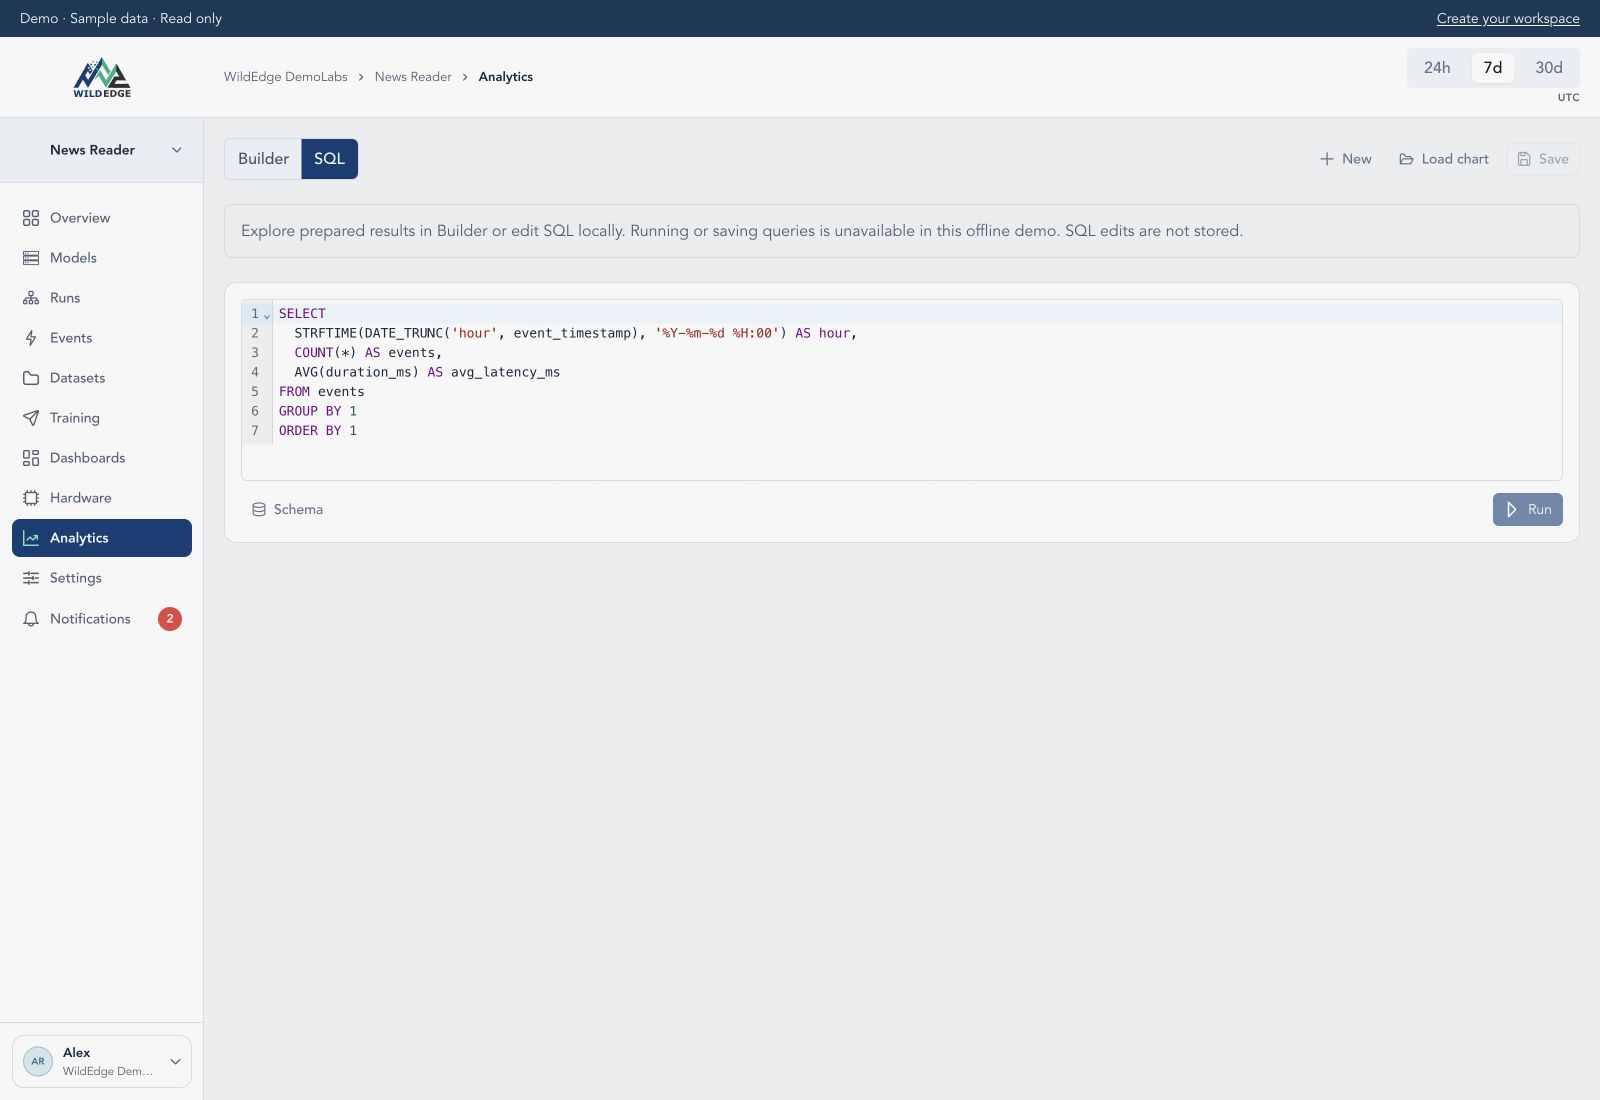
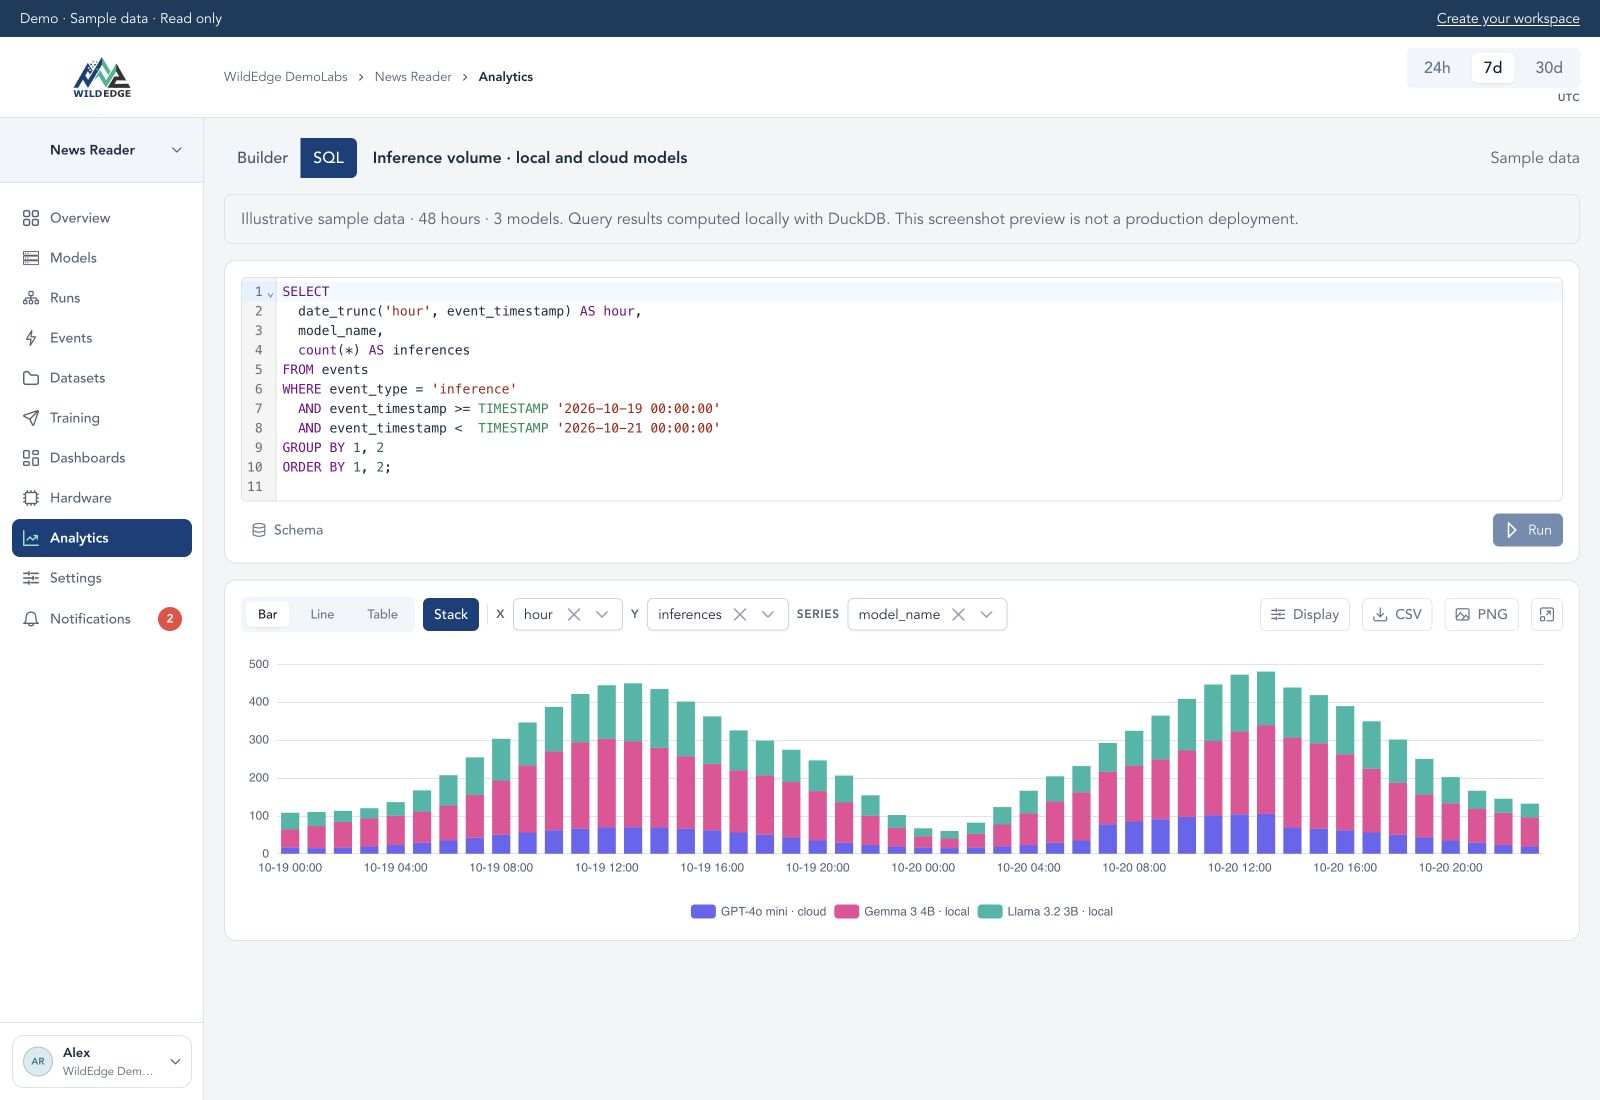
Show computed sample SQL results as stacked model volumes

diff --git a/docs/images/sql-preview/DemoAnalytics.vue b/docs/images/sql-preview/DemoAnalytics.vue
@@ -1,0 +1,40 @@
+<template>
+  <div class="analytics data-view">
+    <div class="query-header">
+      <ButtonGroup>
+        <Button label="Builder" severity="secondary" />
+        <Button label="SQL" />
+      </ButtonGroup>
+      <strong>Inference volume · local and cloud models</strong>
+      <span class="sample-label">Sample data</span>
+    </div>
+    <div class="demo-notice" role="note">
+      Illustrative sample data · 48 hours · 3 models. Query results computed locally with DuckDB.
+      This screenshot preview is not a production deployment.
+    </div>
+    <SqlExplorer :initial-sql="query" demo-preview />
+    <QueryResult compact :result="result" :loading="false" :error="null" :initial-view="{
+      vizType: 'bar', stacked: true, xCol: 'hour', yCol: 'inferences', seriesCol: 'model_name',
+      display: {}, statValueColumn: null, statReducer: 'last',
+    }" />
+  </div>
+</template>
+<script setup lang="ts">
+import { ref, onMounted, nextTick } from 'vue'
+import Button from 'primevue/button'
+import ButtonGroup from 'primevue/buttongroup'
+import SqlExplorer from '@/components/SqlExplorer.vue'
+import QueryResult from '@/components/QueryResult.vue'
+import type { QueryResultData } from '@/services/analyticsService'
+import query from '@/services/demo/screenshot-query.sql?raw'
+import fixture from '@/services/demo/screenshot-result.json'
+const result = ref<QueryResultData | null>(null)
+onMounted(async () => { await nextTick(); result.value = fixture })
+</script>
+<style scoped>
+.analytics { display: flex; flex-direction: column; gap: 1rem; }
+.query-header { display: flex; align-items: center; flex-wrap: wrap; gap: 1rem; }
+.sample-label { color: var(--text-color-secondary); margin-left: auto; }
+.demo-notice { padding: .75rem 1rem; border: 1px solid var(--surface-border); border-radius: 8px;
+  color: var(--text-color-secondary); line-height: 1.5; }
+</style>

diff --git a/docs/images/sql-preview/prepare.py b/docs/images/sql-preview/prepare.py
@@ -1,0 +1,76 @@
+"""Create an isolated, fictional SQL screenshot preview using the actual dashboard.
+
+Usage: python prepare.py /path/to/wild-edge /private/tmp/wildedge-sql-preview
+Requires duckdb in the Python environment and installed dashboard node_modules.
+"""
+
+import json
+import math
+import shutil
+import sys
+from datetime import datetime, timedelta
+from pathlib import Path
+
+import duckdb
+
+source = Path(__file__).resolve().parent
+repository = Path(sys.argv[1]).resolve()
+destination = Path(sys.argv[2]).resolve()
+if destination.exists():
+    raise SystemExit(
+        "Choose a new preview directory; existing files are never replaced."
+    )
+shutil.copytree(
+    repository / "dashboard",
+    destination,
+    ignore=shutil.ignore_patterns("node_modules", "dist", "dist-demo", ".vite"),
+)
+(destination / "node_modules").symlink_to(
+    repository / "dashboard" / "node_modules", target_is_directory=True
+)
+connection = duckdb.connect()
+connection.execute(
+    "CREATE TABLE events(event_timestamp TIMESTAMP, event_type VARCHAR, model_name VARCHAR)"
+)
+events = []
+models = ["Gemma 3 4B · local", "Llama 3.2 3B · local", "GPT-4o mini · cloud"]
+for hour in range(48):
+    timestamp = datetime(2026, 10, 19) + timedelta(hours=hour)
+    daytime = (1 + math.sin((hour % 24 - 7) * math.pi / 12)) / 2
+    volumes = [
+        round(45 + 175 * daytime + 20 * math.sin(hour * 0.7)),
+        round(30 + 115 * daytime + 12 * math.cos(hour * 0.9)),
+        round(15 + 55 * daytime + (35 if 31 <= hour <= 37 else 0)),
+    ]
+    for model, count in zip(models, volumes, strict=True):
+        events.extend(
+            (timestamp + timedelta(seconds=second * 7), "inference", model)
+            for second in range(count)
+        )
+connection.executemany("INSERT INTO events VALUES (?, ?, ?)", events)
+query = (source / "query.sql").read_text()
+cursor = connection.execute(query)
+rows = [
+    [value.isoformat() if isinstance(value, datetime) else value for value in row]
+    for row in cursor.fetchall()
+]
+assert len(rows) == 48 * 3
+assert sum(row[2] for row in rows) == len(events)
+fixture = {
+    "columns": [description[0] for description in cursor.description],
+    "rows": rows,
+    "truncated": False,
+    "elapsed_ms": 0,
+}
+
+(destination / "src/services/demo/screenshot-result.json").write_text(
+    json.dumps(fixture)
+)
+shutil.copyfile(
+    source / "query.sql", destination / "src/services/demo/screenshot-query.sql"
+)
+shutil.copyfile(
+    source / "DemoAnalytics.vue", destination / "src/views/DemoAnalytics.vue"
+)
+print(f"Computed {len(rows)} grouped rows from {len(events)} fictional events.")
+print(f"Preview prepared in {destination}")

diff --git a/README.md b/README.md
@@ -23,9 +23,9 @@ Prompts and outputs aren't uploaded unless you explicitly attach them.
 
 | Model performance | Workflow trace | SQL editor |
 |:---:|:---:|:---:|
-| <a href="docs/images/demo-model-performance.jpg"><img src="docs/images/demo-model-performance.jpg" alt="Model health, latency, time to first token, and throughput" width="180"></a> | <a href="docs/images/demo-trace.jpg"><img src="docs/images/demo-trace.jpg" alt="Named workflow step and inference timing in a trace waterfall" width="180"></a> | <a href="docs/images/demo-sql.jpg"><img src="docs/images/demo-sql.jpg" alt="SQL editor for exploring inference telemetry" width="180"></a> |
+| <a href="docs/images/demo-model-performance.jpg"><img src="docs/images/demo-model-performance.jpg" alt="Model health, latency, time to first token, and throughput" width="180"></a> | <a href="docs/images/demo-trace.jpg"><img src="docs/images/demo-trace.jpg" alt="Named workflow step and inference timing in a trace waterfall" width="180"></a> | <a href="docs/images/demo-sql.jpg"><img src="docs/images/demo-sql.jpg" alt="SQL query with stacked hourly inference volumes across local and cloud models" width="180"></a> |
 
-*Demo sample data across WildEdge SDKs. Click a thumbnail for the full-size image,
+*Illustrative sample data across WildEdge SDKs. Click a thumbnail for the full-size image,
 or [explore the read-only demo](https://wildedge.dev/demo).*
 
 <details>

diff --git a/docs/images/sql-preview/README.md b/docs/images/sql-preview/README.md
@@ -1,0 +1,27 @@
+# Reproduce the SQL screenshot
+
+This is an illustrative local preview, not a deployed demo feature or production
+telemetry. The SQL runs against deterministic fictional events in DuckDB, and
+the existing dashboard SqlExplorer and QueryResult components render the result.
+No chart pixels or query results are fabricated independently of the query.
+
+Prerequisites: a wild-edge checkout with dashboard dependencies installed, Node,
+and a Python environment containing DuckDB (the platform's `.venv` includes it).
+
+```bash
+/path/to/wild-edge/.venv/bin/python prepare.py /path/to/wild-edge /private/tmp/sql-preview
+cd /private/tmp/sql-preview
+npm run typecheck
+npm run build:demo
+MOCKED_BE=true npm run preview -- --outDir dist-demo --host 127.0.0.1 --port 4180
+```
+
+Open `http://127.0.0.1:4180/demo/wildedge-demolabs/news-reader/analytics?mode=sql`
+at 1600 × 1100 and capture the full viewport. The preview uses the existing
+compact chart layout to keep the query, axes, stacked bars, and legend visible.
+The source checkout and production site are unchanged.
+
+`prepare.py` creates 12,876 events spanning 48 hours and three fictional model
+workloads. It executes `query.sql` and checks that its 144 grouped rows account
+for every generated event. `DemoAnalytics.vue` is a screenshot-only composition
+of existing dashboard components; the editable SQL field does not execute queries.

diff --git a/docs/images/README.md b/docs/images/README.md
@@ -23,9 +23,10 @@ thumbnails linked to the full-size images, with a separate live-demo link.
 
 - `demo-trace.jpg`: News Reader → Runs → demo-run-1. Shows a named step and
   a local summarizer inference; this sample does not include a cloud call.
-- `demo-sql.jpg`: News Reader → Analytics → SQL. Shows the demo's default
-  query. SQL execution is disabled in this offline demo; no query results
-  were fabricated or added to the screenshot.
+- `demo-sql.jpg`: a local screenshot-only composition of the dashboard's SQL
+  editor and chart result components. It shows query results computed with DuckDB
+  from generated fictional events, not the deployed offline demo or production
+  telemetry. See [sql-preview/README.md](sql-preview/README.md) to reproduce it.
 
 The opening row contains performance, trace, and SQL previews. Events and
 hardware remain in a collapsed More screenshots section. All five thumbnails
